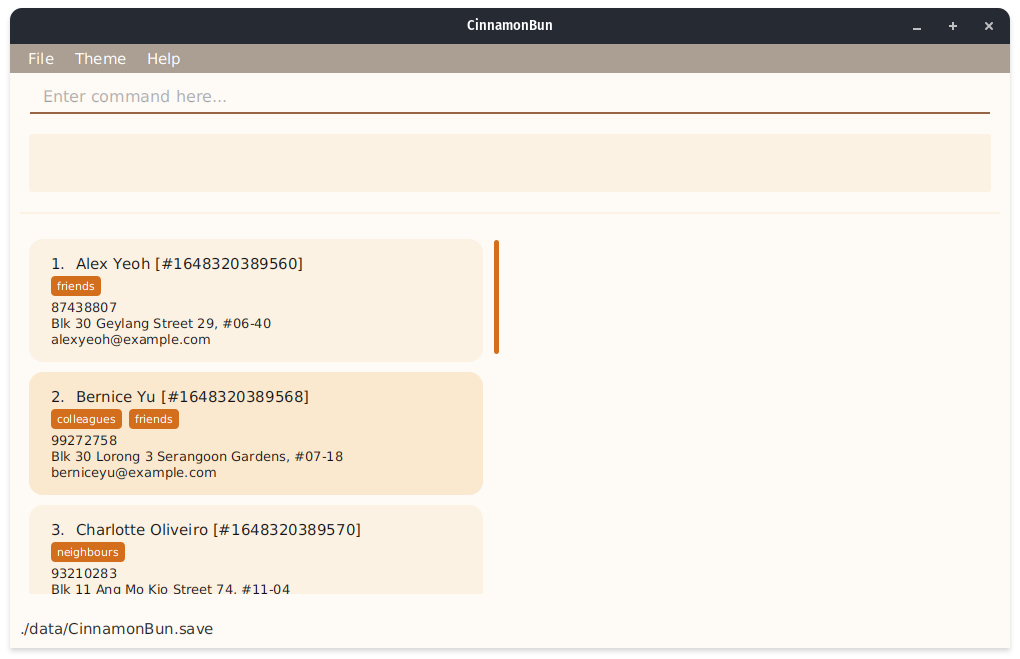
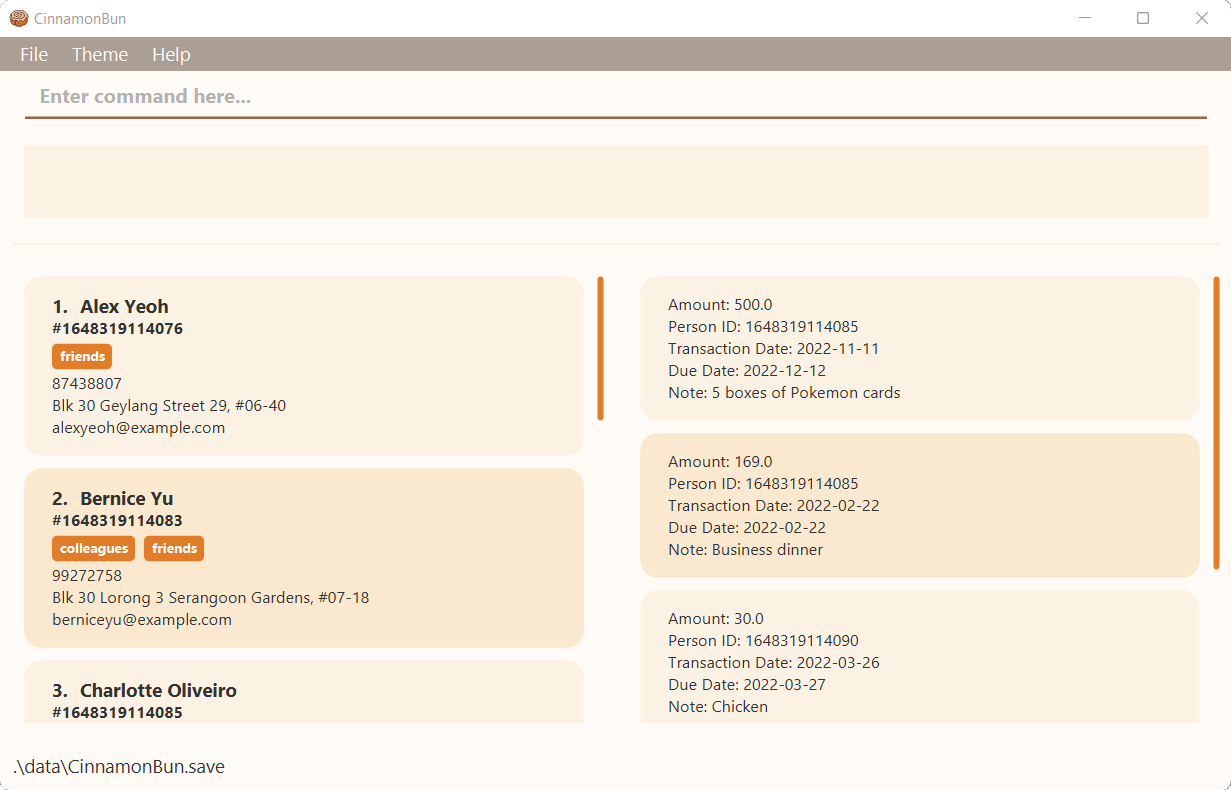
Update UI

diff --git a/src/main/resources/view/MainWindow.css b/src/main/resources/view/MainWindow.css
@@ -1,4 +1,4 @@
-.label {
+.label, .result-display, #commandTextField {
     -fx-font-size: 15px;
     -fx-font-family: "Segoe UI", sans-serif;
 }
@@ -19,19 +19,16 @@
     -fx-background-insets: 5px 9px;
 }
 
-.list-cell .label {
-    -fx-font-family: "Segoe UI";
+.list-cell .label, #optionalFields .label {
     -fx-font-size: 13px;
 }
 
 .list-cell .cell_big_label {
-    -fx-font-family: "Segoe UI Semibold", sans-serif;
+    -fx-font-weight: bold;
     -fx-font-size: 15px;
 }
 
 .result-display {
-    -fx-font-family: "Segoe UI", sans-serif;
-    -fx-font-size: 15px;
     -fx-wrap-text: "true";
     -fx-border-width: 1px;
     -fx-border-radius: 8px;
@@ -43,7 +40,7 @@
 }
 
 .status-bar .label {
-    -fx-font-family: "Segoe UI Light", sans-serif;
+    -fx-font-weight: lighter;
     -fx-padding: 10px;
     -fx-pref-height: 30px;
 }
@@ -62,15 +59,14 @@
     -fx-padding: 10px 9px 20px 9px;
 }
 
-#commandTypeLabel {
+#commandTextField {
+    -fx-border-width: 0 0 2px 0;
+    -fx-font-weight: bolder;
     -fx-font-size: 16px;
-    -fx-text-fill: #F70D1A;
 }
 
-#commandTextField {
-    -fx-border-width: 2px;
-    -fx-font-family: "Segoe UI Semibold", sans-serif;
-    -fx-font-size: 16px;
+#pid {
+    -fx-font-weight: bolder;
 }
 
 #tags, #memberships {
@@ -78,16 +74,11 @@
 }
 
 #tags .label, #memberships .label {
+    -fx-font-weight: bolder;
     -fx-padding: 6px;
     -fx-border-radius: 4px;
     -fx-background-radius: 4px;
     -fx-font-size: 11px;
-    -fx-font-family: "Segoe UI Semibold", sans-serif;
     -fx-border-insets: 3px 0;
     -fx-background-insets: 3px 0;
-}
-
-#optionalFields .label {
-    -fx-font-family: "Segoe UI", sans-serif;
-    -fx-font-size: 13px;
 }

diff --git a/src/main/resources/view/Cinnamon.css b/src/main/resources/view/Cinnamon.css
@@ -17,7 +17,7 @@
 }
 
 .list-cell .label {
-    -fx-text-fill: #222;
+    -fx-text-fill: #333;
 }
 
 .result-display {
@@ -47,7 +47,7 @@
 }
 
 .thumb {
-    -fx-background-color: #D36F1C;
+    -fx-background-color: #E27C26;
 }
 
 #resultPane {
@@ -56,17 +56,17 @@
 
 #commandTextField {
     -fx-background-color: #FEFAF5;
-    -fx-border-color: transparent transparent #986544 transparent;
+    -fx-border-color: #986544;
     -fx-text-fill: #333;
 }
 
 #commandTextField:focused {
-    -fx-border-color: transparent transparent #D36F1C transparent;
+    -fx-border-color: #E27C26;
 }
 
 #tags .label, #memberships .label {
     -fx-text-fill: white;
-    -fx-background-color: #D36F1C;
+    -fx-background-color: #E27C26;
 }
 
 #memberships .label {

diff --git a/src/main/java/seedu/address/ui/PersonCard.java b/src/main/java/seedu/address/ui/PersonCard.java
@@ -42,6 +42,8 @@ public class PersonCard extends UiPart<Region> {
     @FXML
     private Label id;
     @FXML
+    private Label personId;
+    @FXML
     private Label phone;
     @FXML
     private Label address;
@@ -76,7 +78,8 @@ public class PersonCard extends UiPart<Region> {
         id.setText(displayedIndex + ". ");
 
         // Required fields.
-        name.setText(person.getName().getValue() + " [#" + person.getUniqueId() + "]");
+        name.setText(person.getName().getValue());
+        personId.setText("#" + person.getUniqueId());
         phone.setText(person.getPhone().getValue());
         address.setText(person.getAddress().getValue());
         email.setText(person.getEmail().getValue());

diff --git a/src/main/java/seedu/address/model/transaction/Transaction.java b/src/main/java/seedu/address/model/transaction/Transaction.java
@@ -111,7 +111,7 @@ public class Transaction implements Serializable {
      *
      */
     public String getPersonIdString() {
-        return String.format("Person unique id: %d", getPersonId());
+        return String.format("Person ID: %d", getPersonId());
     }
 
     /**
